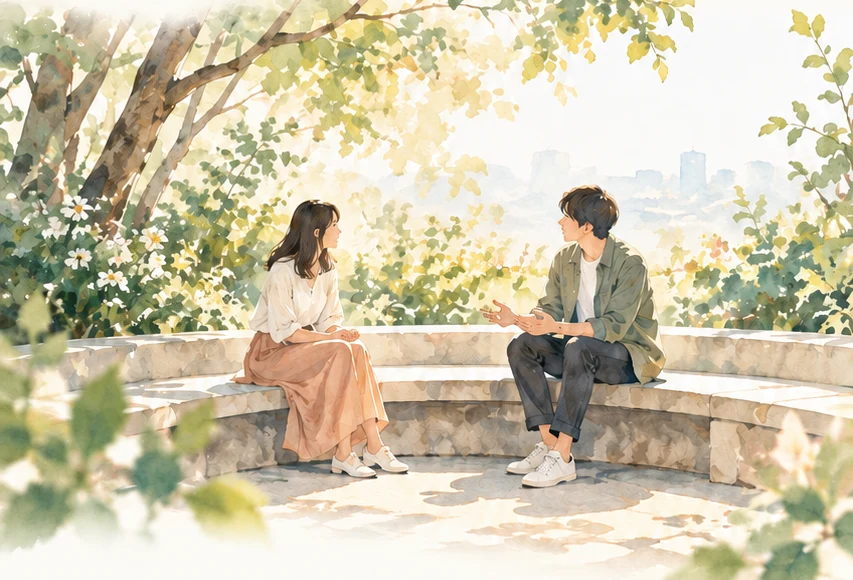
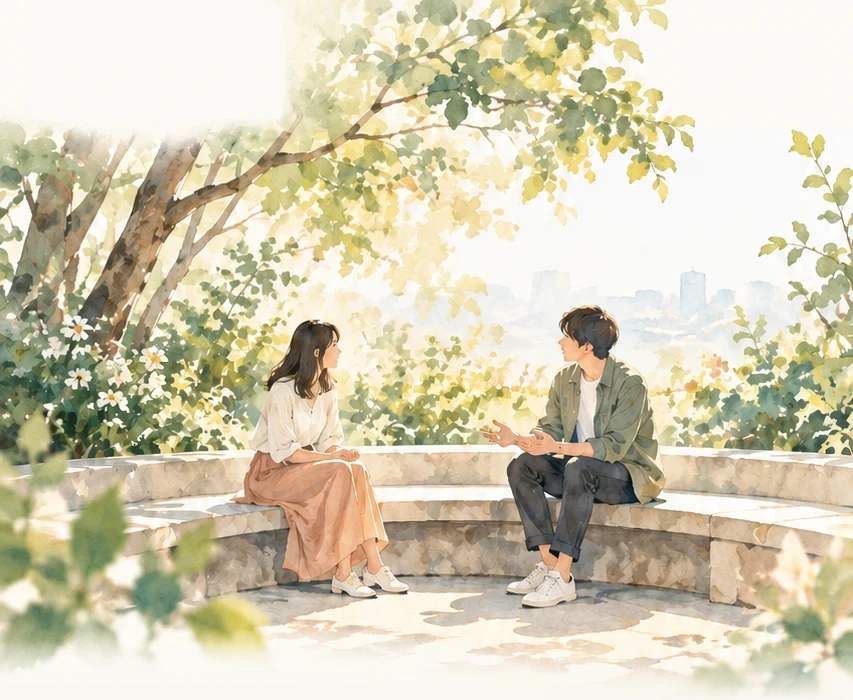
Keep the approved full-width garden above the homepage copy

diff --git a/src/app/design.css b/src/app/design.css
@@ -257,78 +257,100 @@ summary:focus-visible {
 body:has(.yorisoi-home-shell) > .site-footer {
   margin-inline: auto;
 }
-/* Homepage: illustration and editable copy have separate responsive layouts. */
+/* The approved composition is vertical: a full garden above the copy. */
+.yorisoi-home-shell {
+  position: relative;
+  max-width: 1000px;
+  margin-inline: auto;
+}
 .home-header {
-  max-width: 1180px;
-  padding: 24px var(--gutter);
+  position: absolute;
+  top: 0;
+  inset-inline: 0;
+  z-index: 1;
+  padding: 30px 6%;
   border: 0;
+  align-items: flex-start;
+}
+.home-header .p6-brand {
+  font-size: clamp(28px, 5.8vw, 48px);
+  font-weight: 600;
+  line-height: 1.25;
+}
+.home-header .p6-brand small {
+  font-size: clamp(10px, 1.5vw, 15px);
+  letter-spacing: 0.28em;
+  margin-top: 10px;
 }
 .home-header nav {
   display: flex;
   align-items: center;
-  gap: 28px;
 }
 .home-header nav a {
   display: inline-flex;
   min-height: 44px;
   align-items: center;
-  font-size: 15px;
+  font-size: clamp(15px, 2.3vw, 22px);
   text-decoration: underline;
+  text-underline-offset: 10px;
+}
+.home-header nav .home-header-extra {
+  display: none;
 }
 .yorisoi-home {
-  max-width: 1180px;
   margin: auto;
-  padding-inline: var(--gutter);
 }
 .home-hero {
-  display: grid;
-  grid-template-columns: 0.9fr 1.1fr;
-  align-items: center;
-  padding-block: 28px 60px;
-  gap: 28px;
-}
-.home-art {
-  grid-column: 2;
-  grid-row: 1;
+  padding-bottom: 40px;
 }
 .home-art img {
   display: block;
   width: 100%;
   height: auto;
-  border-radius: 44% 8% 30% 10% / 12% 20% 12% 20%;
 }
 .home-introduction {
-  grid-column: 1;
-  grid-row: 1;
+  padding: 0 6%;
+  margin-top: -6px;
+  position: relative;
 }
 .p6 .home-kicker,
 .home-kicker {
   color: var(--muted);
-  font-size: 15px;
-  letter-spacing: 0.055em;
-  margin: 0 0 16px;
+  font-size: clamp(14px, 2.5vw, 23px);
+  letter-spacing: 0.05em;
+  margin: 0 0 20px;
+}
+.home-introduction .home-kicker::after {
+  content: "";
+  display: inline-block;
+  vertical-align: middle;
+  width: 2.5em;
+  height: 1px;
+  margin-left: 1em;
+  background: var(--muted);
 }
 .p6 .home-introduction h1 {
-  font-size: clamp(36px, 4.1vw, 56px);
-  line-height: 1.6;
-  letter-spacing: 0.035em;
-  margin: 0 0 24px;
+  font-size: clamp(38px, 8vw, 82px);
+  line-height: 1.45;
+  letter-spacing: 0.025em;
+  margin: 0 0 20px;
   font-weight: 600;
 }
 .p6 .home-description {
-  font-size: 18px;
-  line-height: 2;
+  font-family: var(--heading-font);
+  font-size: clamp(19px, 3.8vw, 34px);
+  line-height: 1.7;
   margin-bottom: 28px;
 }
 .home-mobile-break {
-  display: none;
+  display: block;
 }
 .home-primary {
   display: flex;
-  max-width: 380px;
-  min-height: 60px;
   width: 100%;
-  font-size: 18px;
+  min-height: 72px;
+  font-size: clamp(18px, 3.6vw, 26px);
+  border-radius: 48px;
 }
 .home-primary svg:last-child {
   margin-left: auto;
@@ -349,20 +371,30 @@ body:has(.yorisoi-home-shell) > .site-footer {
 .home-introduction .home-secondary {
   margin-top: 12px;
 }
+.home-answer,
+.home-offers,
+.home-reading {
+  margin-inline: 6%;
+}
 .home-answer {
   display: grid;
-  grid-template-columns: 0.9fr 1.1fr;
-  gap: 50px;
-  padding: 48px 0 60px;
+  grid-template-columns: 0.8fr 1.2fr;
+  gap: 32px;
+  padding: 40px 0;
   border-top: 1px solid var(--line);
 }
 .p6 .home-section-intro h2,
 .p6 .home-reading h2 {
-  font-size: clamp(25px, 2.6vw, 32px);
+  font-size: clamp(25px, 3.6vw, 32px);
   margin-bottom: 16px;
 }
 .home-section-intro > p:last-child {
   color: var(--muted);
+}
+.home-answer .home-kicker,
+.home-offers .home-kicker,
+.home-reading .home-kicker {
+  font-size: 14px;
 }
 .home-example {
   margin-bottom: 16px;
@@ -371,11 +403,11 @@ body:has(.yorisoi-home-shell) > .site-footer {
 }
 .home-question {
   background: #f9eade;
-  margin-right: 36px;
+  margin-right: 28px;
 }
 .home-ai {
   background: #e9ede3;
-  margin-left: 36px;
+  margin-left: 28px;
 }
 .home-speaker {
   display: flex;
@@ -394,7 +426,7 @@ body:has(.yorisoi-home-shell) > .site-footer {
   margin: 20px 0 0;
 }
 .home-offers {
-  padding-block: 44px;
+  padding-block: 40px;
   border-top: 1px solid var(--line);
 }
 .home-price-list {
@@ -449,7 +481,7 @@ body:has(.yorisoi-home-shell) > .site-footer {
   text-decoration: underline;
 }
 .p6 .home-disclaimer {
-  margin: 28px 0 0;
+  margin: 28px 6% 0;
 }
 @media (max-width: 900px) {
   .plan-card + .plan-card {
@@ -458,46 +490,8 @@ body:has(.yorisoi-home-shell) > .site-footer {
   .plan-card {
     padding-inline: 0;
   }
-  .home-header nav .home-header-extra {
-    display: none;
-  }
-  .home-hero {
-    grid-template-columns: 1fr;
-    gap: 20px;
-    padding-block: 0 32px;
-  }
-  .home-art {
-    grid-column: 1;
-    grid-row: 1;
-    margin-inline: calc(-1 * var(--gutter));
-  }
-  .home-art img {
-    width: 100%;
-    height: clamp(190px, 52vw, 330px);
-    object-fit: cover;
-    object-position: 50% 55%;
-    border-radius: 0;
-  }
-  .home-introduction {
-    grid-column: 1;
-    grid-row: 2;
-  }
-  .p6 .home-introduction h1 {
-    font-size: clamp(32px, 7.8vw, 48px);
-    margin-bottom: 12px;
-  }
-  .p6 .home-description {
-    font-size: 16px;
-    margin-bottom: 18px;
-  }
-  .home-primary {
-    max-width: 420px;
-    min-height: 54px;
-    font-size: 17px;
-  }
-  .p6 .home-kicker {
-    font-size: 14px;
-    margin-bottom: 10px;
+  .home-header {
+    padding-block: 16px;
   }
   .home-answer {
     grid-template-columns: 1fr;
@@ -513,26 +507,30 @@ body:has(.yorisoi-home-shell) > .site-footer {
   }
 }
 @media (max-width: 500px) {
-  .home-header {
-    padding-block: 16px;
+  .home-header .p6-brand small {
+    margin-top: 6px;
   }
-  .home-header .p6-brand {
-    font-size: 26px;
+  .home-introduction .home-kicker {
+    font-size: 13px;
+    letter-spacing: 0.02em;
+    margin-bottom: 14px;
   }
-  .home-header nav a {
-    font-size: 14px;
+  .home-introduction .home-kicker::after {
+    width: 1.5em;
+    margin-left: 0.6em;
   }
-  .home-hero {
-    gap: 16px;
-  }
-  .home-art img {
-    height: 200px;
+  .p6 .home-introduction h1 {
+    font-size: clamp(33px, 9.9vw, 49px);
+    line-height: 1.45;
+    margin-bottom: 14px;
   }
   .p6 .home-description {
-    line-height: 1.9;
+    font-size: clamp(18px, 5.1vw, 24px);
+    margin-bottom: 20px;
   }
-  .home-mobile-break {
-    display: block;
+  .home-primary {
+    min-height: 56px;
+    font-size: 18px;
   }
   .home-example {
     padding: 16px 18px;

diff --git a/src/components/phase6/shell.tsx b/src/components/phase6/shell.tsx
@@ -46,7 +46,7 @@ export default function Phase6Shell({
             <Link className="home-header-extra" href="/plans">
               料金・プラン
             </Link>
-            <Link href="/account">マイページ・ログイン</Link>
+            <Link href="/account">ログイン</Link>
           </nav>
         </header>
         {children}

diff --git a/src/components/phase6/home.tsx b/src/components/phase6/home.tsx
@@ -19,7 +19,7 @@ export default function Home({
           <Image
             src="/images/yorisoi-garden.webp"
             width={853}
-            height={580}
+            height={700}
             alt="木漏れ日の庭で、距離を取りながら向き合う二人の水彩画"
             preload
             unoptimized
